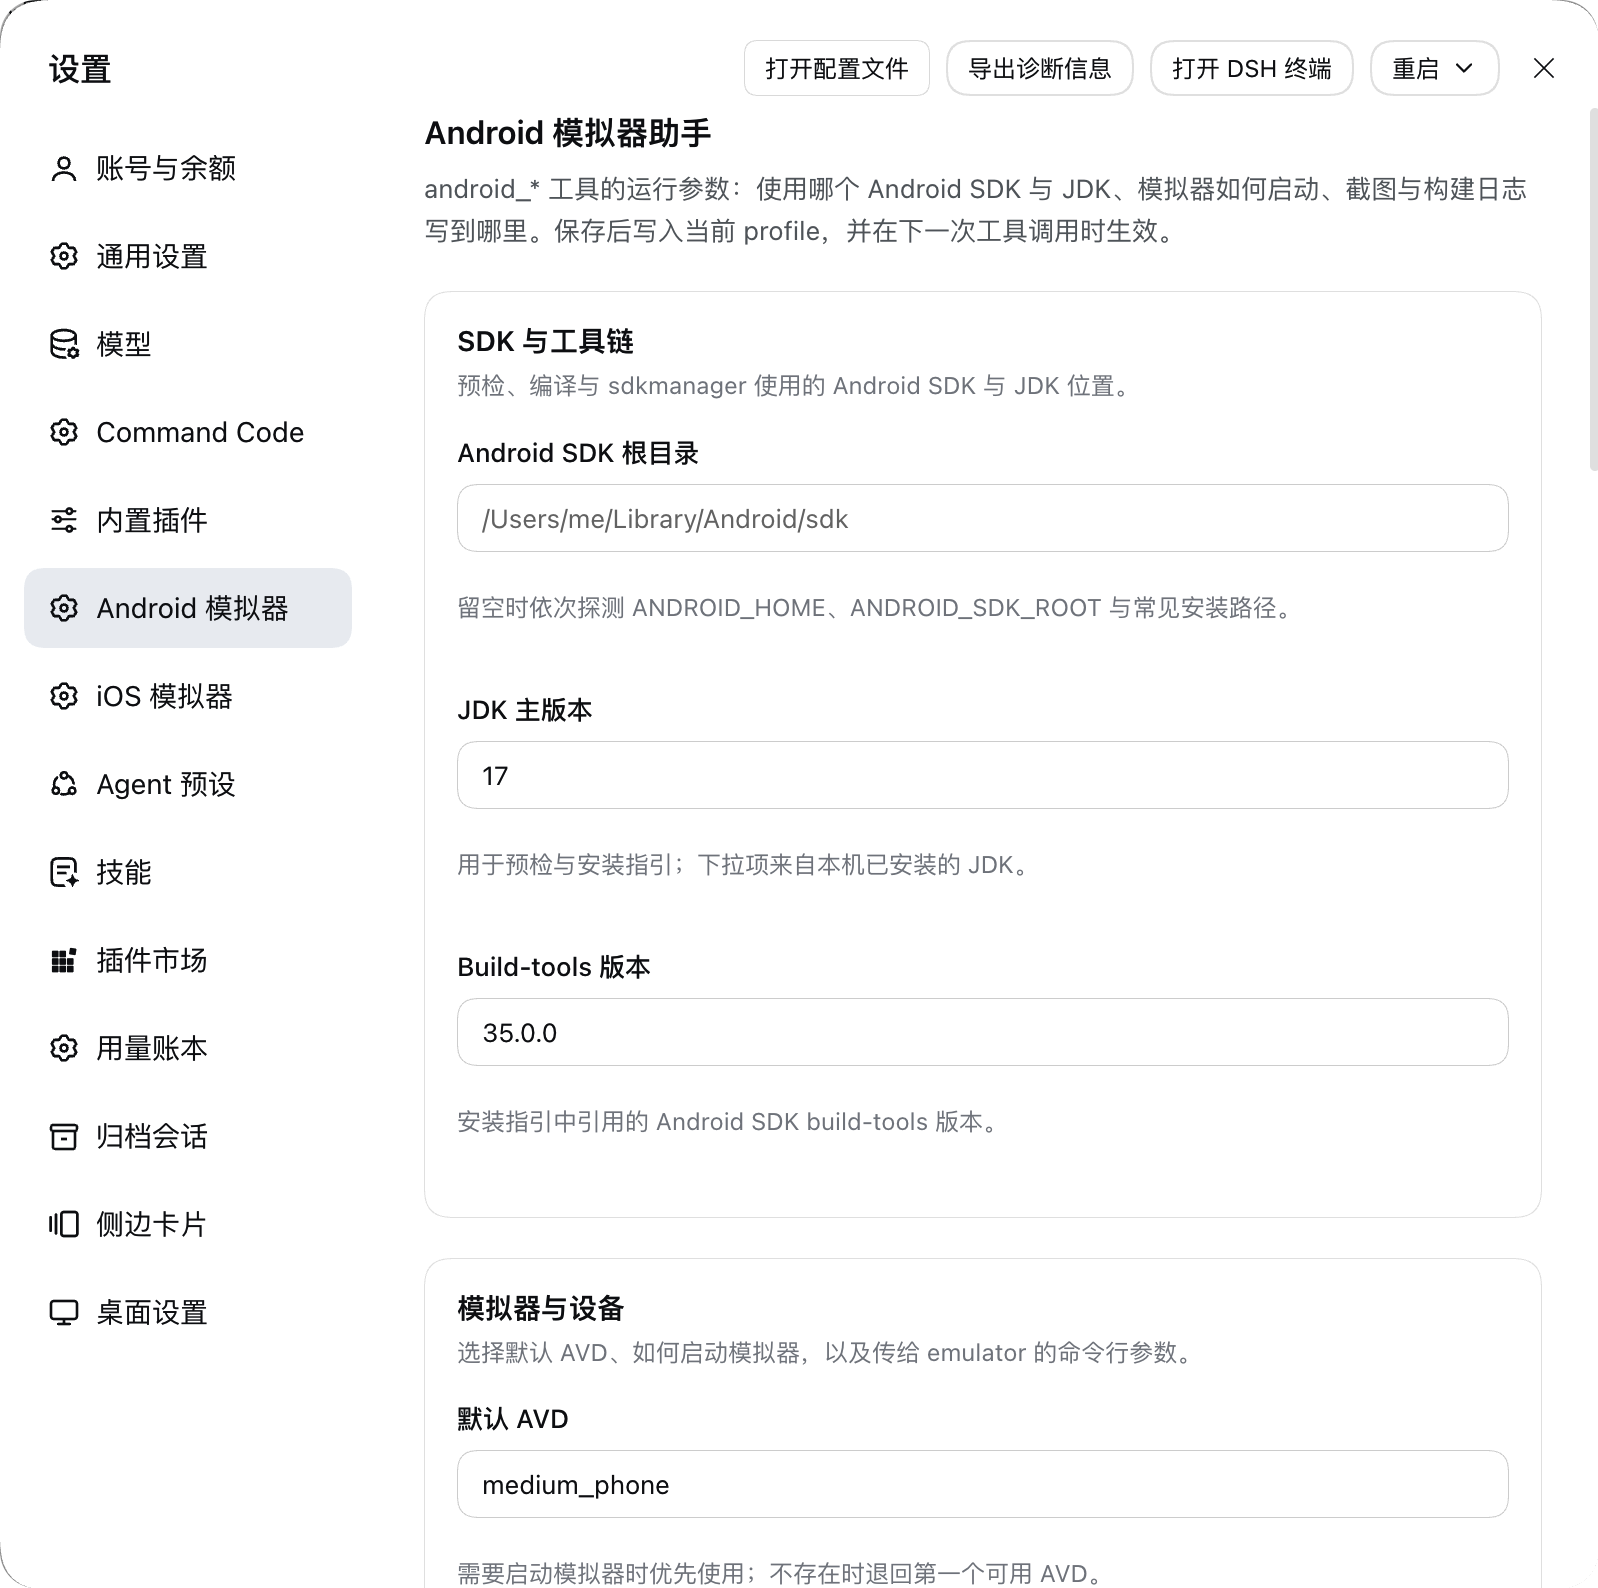
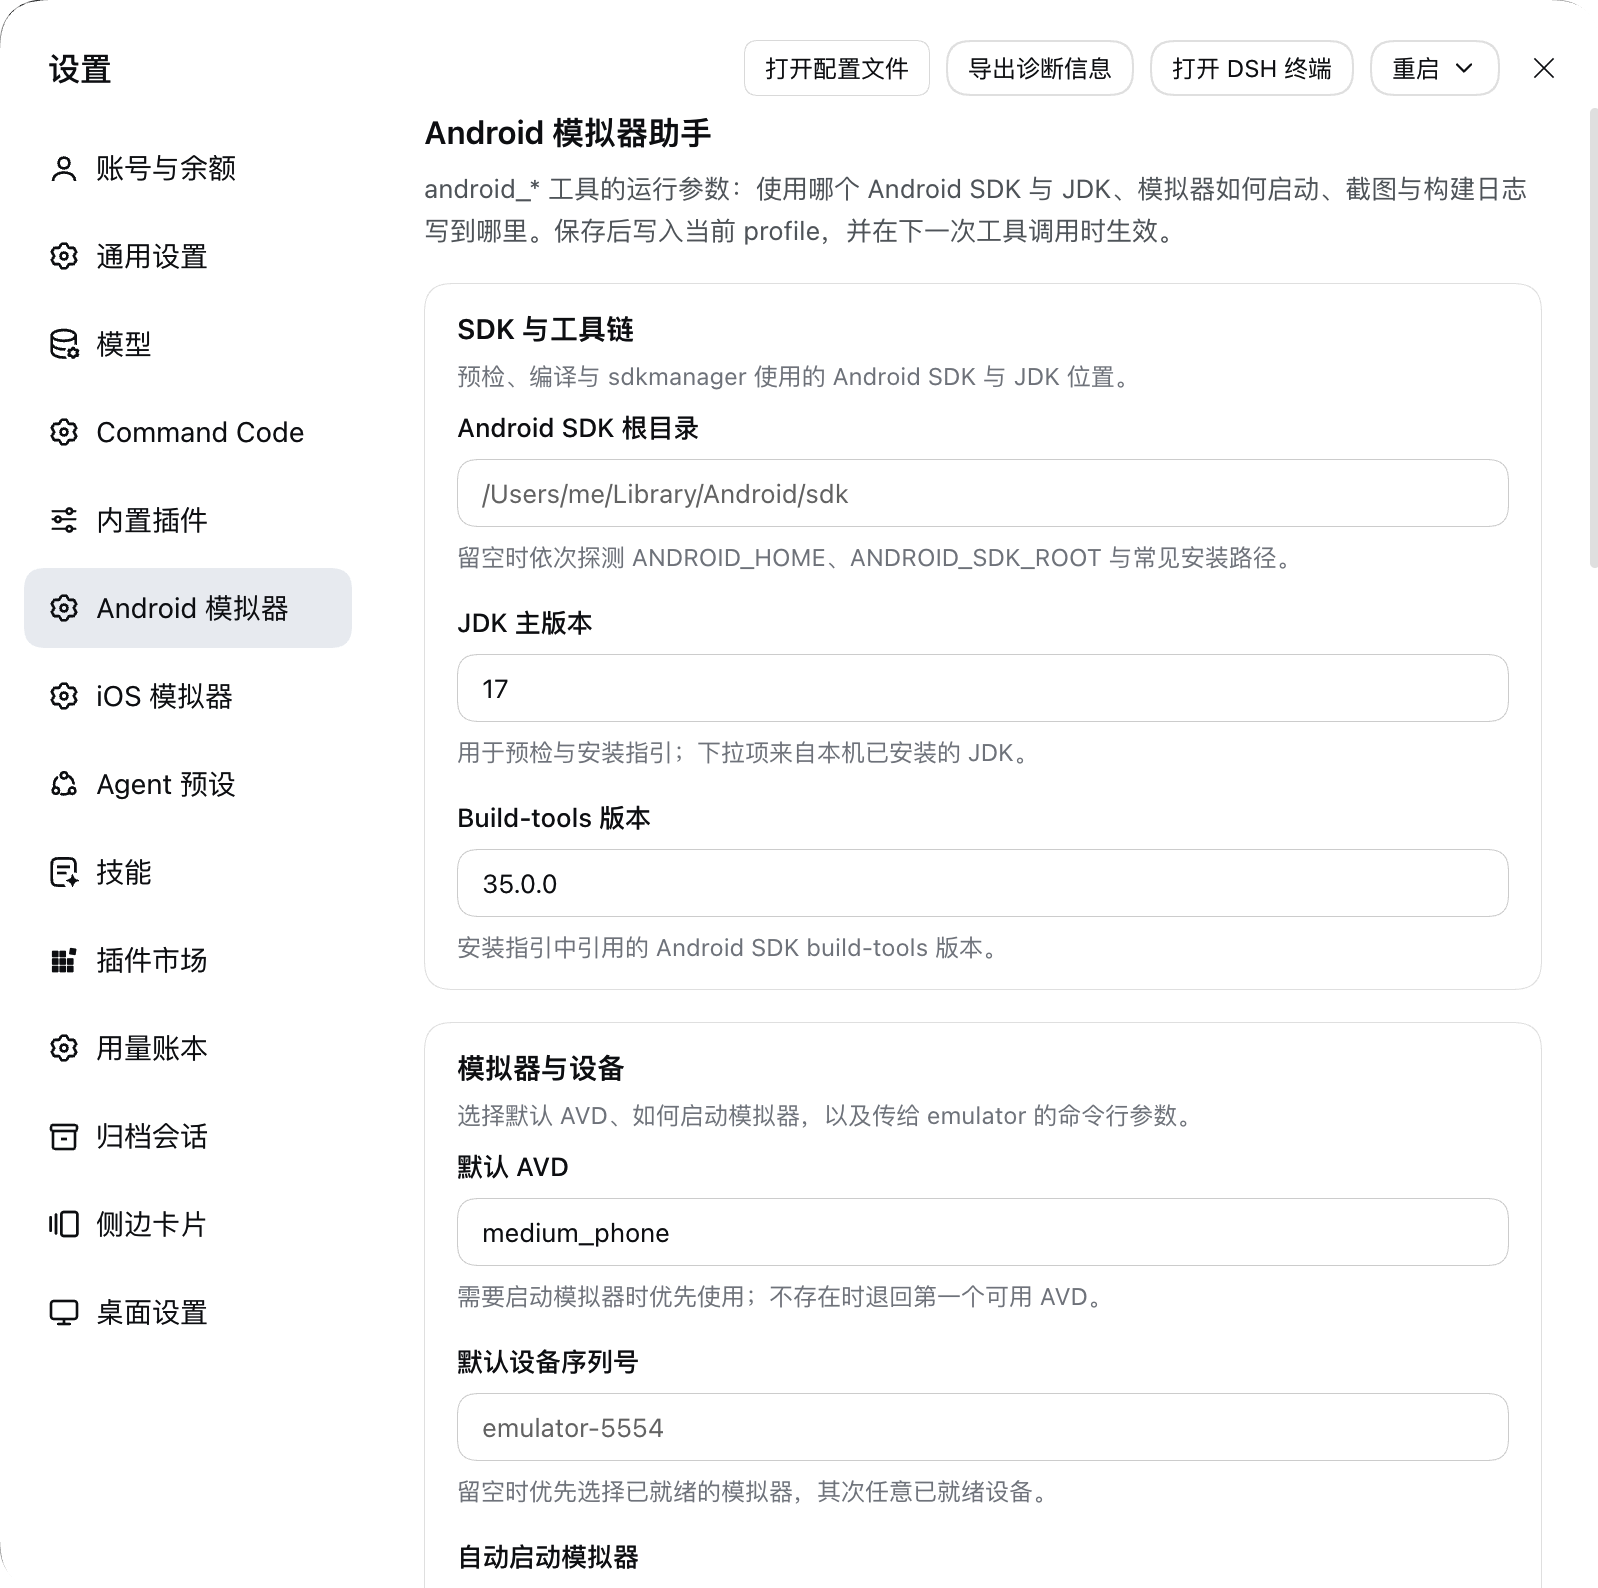
docs: refresh the four gallery screenshots
The four captures the market shows under `assets/` were shot before
`fc147ec` tightened the settings page's card rhythm, so they showed a
layout that no longer exists: the old 10px field padding, a card at
`14px 16px 16px` and 20px between cards. Nothing fails when the gallery
rots — the market simply renders a page the plugin no longer has — which
is the rot this replaces.

Re-shot from the live page in DSH Desktop at 1598 × 1588, in the Chinese
locale, in the same four scroll positions, and kept under their existing
descriptive filenames: `screenshots.json` and both READMEs index the
gallery by those names, so a rename would have broken the market listing
rather than merely the prose. Scroll order was verified per shot by the
position of the first text band in the content column
(y=118/139/129/125), and each shot's content was read back to confirm it
still matches the alt text the two READMEs carry. The sidebar is
pixel-identical between the old and new captures, so the difference is
entirely the content rhythm rather than a different window.

The gallery paragraph in both editions dated itself to "the 1.1.0 card
layout", which that rhythm change had already falsified; it now names
the metrics that the captures actually show — 7px above and below a
field, a `12px 16px` card, 16px between cards.

`pnpm run check` is green: 151 tests including the two gallery gates in
`manifest.test.js`, the host/client consistency gate, and all 23 tools
[…]

diff --git a/README.zh-CN.md b/README.zh-CN.md
@@ -126,7 +126,7 @@ dsh plugin --profile <profile> add @zhz8888/dsh-android-emulator-helper \
 
 ## 设置页截图
 
-四张都是 DSH Desktop 里真实页面按滚动顺序的实拍，没有任何拼凑。1598 × 1588 PNG，对应 1.1.0 的卡片布局；截图时窗口是中文语言，所以卡片标题与字段标签都是中文，而上表里的字段 key 两种语言下完全一致。灰色文字是留空字段的占位提示；底部保存条只在有改动待保存时出现，因此这几张图里没有它。
+四张都是 DSH Desktop 里真实页面按滚动顺序的实拍，没有任何拼凑。1598 × 1588 PNG，对应收紧后的卡片节奏（每个字段上下各 7px，卡片 `12px 16px`，卡片之间 16px）；截图时窗口是中文语言，所以卡片标题与字段标签都是中文，而上表里的字段 key 两种语言下完全一致。灰色文字是留空字段的占位提示；底部保存条只在有改动待保存时出现，因此这几张图里没有它。
 
 **1. SDK 与工具链** —— 每次 `android_*` 调用最先解析的 SDK 根目录、JDK 主版本与 build-tools 版本，以及模拟器卡片开头的默认 AVD：
 

diff --git a/README.md b/README.md
@@ -127,8 +127,9 @@ The original plugin's `userConfig` — the seven variables in the last column ab
 ## Screenshots
 
 All four are the live page in DSH Desktop, in the order you scroll it — nothing
-is mocked up. They are 1598 × 1588 PNGs of the 1.1.0 card layout, captured in
-the Chinese locale, so the card headings and field labels read Chinese while the
+is mocked up. They are 1598 × 1588 PNGs of the tightened card rhythm (7px above
+and below a field, a `12px 16px` card, 16px between cards), captured in the
+Chinese locale, so the card headings and field labels read Chinese while the
 field keys in the table above are the same in either language. Grey text is a
 placeholder standing in for a field left empty, and the sticky save bar appears
 only while an edit is staged, so it is not in these shots.
